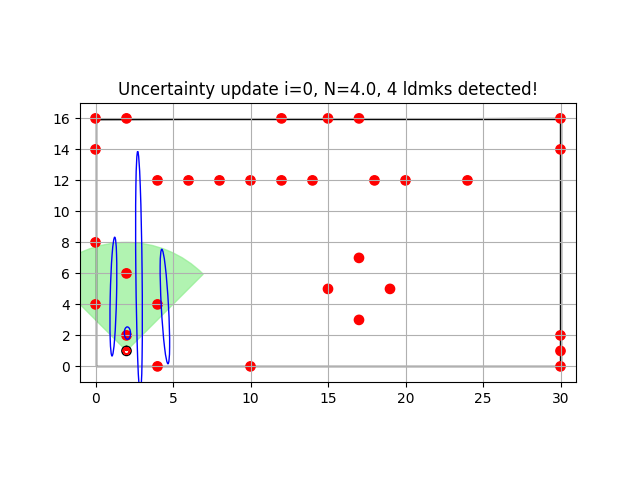
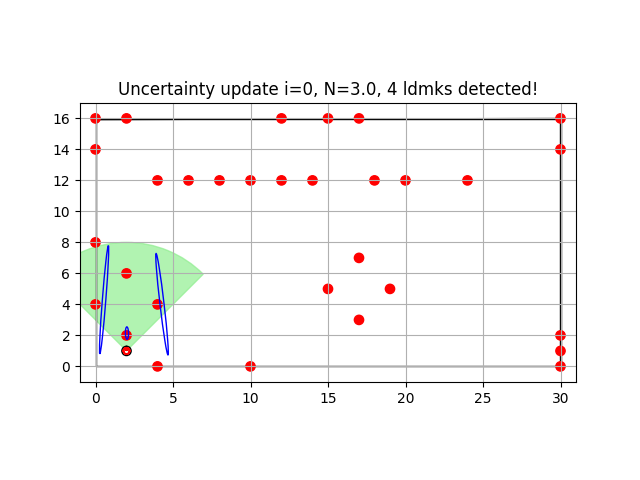
FastSLAM1 OKish. Added 'not found landmark' removal. Example movie

diff --git a/FastSLAM_1.py b/FastSLAM_1.py
@@ -125,9 +125,9 @@ def FastSLAM_1(Y, u_t, z_t, p0, alphas_motion, camera_range, camera_fov,
                         if particle.counter_features[j] < 0:
                             delete_list.append(j)
 
-            # delete_list.reverse()
-            # for j in delete_list:
-            #     particle.delete_feature(j)
+            delete_list.reverse()
+            for j in delete_list:
+                particle.delete_feature(j)
 
     # particles likelihoods considering all readings
     w_particles = w_particles.prod(axis=0)

diff --git a/homework_6.py b/homework_6.py
@@ -50,7 +50,7 @@ ut_seq = np.array(
     # subida                # direita         # descida            # esquerda                       # subida
 
 n_particles = 10
-percep_sigmas = (0.3, 0.2, 0.1)
+percep_sigmas = (0.3, 0.1, 0.1)
 motion_alphas = np.array((5, 1, 0.01, 0.01, 0.01, 0.01))*1e-3
 p0 = 5e-1
 
